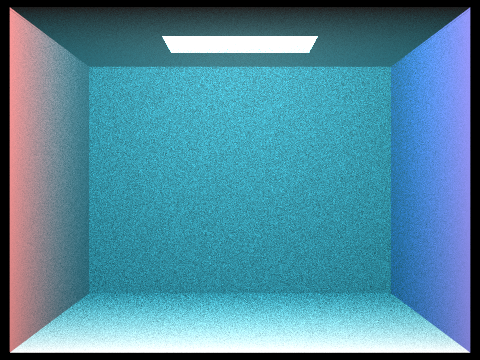
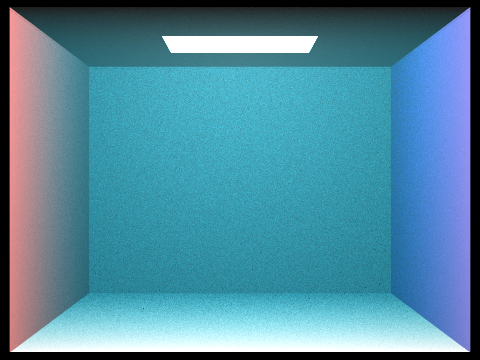
Report polish: high-spp figures, Secchi transition, pipeline diagram

diff --git a/photic_final.html b/photic_final.html
@@ -95,6 +95,13 @@
   recursion rather than being special-cased. Russian roulette (fixed continuation probability) keeps the
   paths finite at high optical depth.
 </p>
+<figure>
+  <img src="images/photic/pipeline.svg" alt="medium path decision flow" style="max-width:560px;">
+  <figcaption>The medium path at a glance. Every ray samples a free-flight distance; if it scatters
+    before reaching a surface we do next-event estimation and a Russian-roulette bounce (which is where
+    multiple scattering comes from), otherwise the ordinary HW3 surface result is attenuated by
+    transmittance over the water segment.</figcaption>
+</figure>
 
 <h3>Henyey-Greenstein phase function</h3>
 <p>
@@ -165,6 +172,20 @@
 </ul>
 
 <h2>Results</h2>
+
+<h3>Starting point vs water medium</h3>
+<p>
+  The clearest way to see what the extension adds is to render the same scene with the medium off and on.
+  Left is stock Homework 3 (no water flag, the byte-for-byte original); right is the identical scene and
+  camera with the water medium enabled at turbidity 0.15, depth scale 4, g = 0.9. Red is absorbed fastest,
+  so the whole box shifts toward cyan; contrast flattens as scattering fills the shadows; and the forward
+  lobe puts a bright glow around the light. The bunny stays recognizable but loses saturation and edge
+  contrast, which is the underwater look the rest of this section quantifies.
+</p>
+<div class="imgrow">
+  <figure><img src="images/photic/bunny_dry.png" alt="bunny in stock Cornell box, no medium"><figcaption>Stock HW3, no medium.</figcaption></figure>
+  <figure><img src="images/photic/bunny_wet.png" alt="same bunny scene rendered underwater"><figcaption>Same scene and camera with the water medium (turbidity 0.15, depth 4, g = 0.9).</figcaption></figure>
+</div>
 
 <h3>Phase function: isotropic vs forward-scattering</h3>
 <p>
@@ -257,6 +278,11 @@
   in the least-absorbed band. The rendered disk agrees with the empirical Kd law.
 </p>
 <figure>
+  <img src="images/photic/secchi_transition.png" alt="Secchi disk fading with depth">
+  <figcaption>The black-and-white target across increasing depth: crisp at depth x1, washing out by x8,
+    and gone by x12. Contrast fades smoothly with depth rather than switching off at a single point.</figcaption>
+</figure>
+<figure>
   <img src="images/photic/secchi_contrast.png" alt="Secchi contrast vs depth">
   <figcaption>White-vs-black patch contrast falling with depth. The shaded band is the Secchi depth
     predicted from measured Kd (1.4 to 1.7 divided by Kd); the measured crossing lands inside it.</figcaption>
@@ -273,16 +299,15 @@
 </ul>
 
 <h2>Contributions</h2>
-<p>
-  <em>Draft split based on the proposal, please confirm and adjust before submission.</em>
-</p>
 <ul>
-  <li><strong>Zachary Liang</strong> led the rendering physics: the medium infrastructure, free-flight
-    distance sampling, transmittance, the Henyey-Greenstein phase function and its importance sampling
-    and validation, the per-channel correction, and the <code>-g</code> control.</li>
-  <li><strong>Blair Xu</strong> led the measurement and analysis: the underwater test scene, the Kd
-    fitting and turbidity sweep, the convergence study, the Secchi relation, and the plotting pipeline.</li>
-  <li>Both members merged and verified the two halves together and produced the report, demo, and video.</li>
+  <li><strong>Zachary Liang</strong> built the rendering physics: the medium infrastructure, free-flight
+    distance sampling, transmittance, the Henyey-Greenstein phase function with its importance sampling
+    and validation, the per-channel chromatic correction, and the <code>-g</code> control.</li>
+  <li><strong>Blair Xu</strong> built the measurement and analysis: the underwater test scenes, the Kd
+    fitting and turbidity sweep, the convergence study, the Secchi-disk cross-check, and the plotting
+    pipeline.</li>
+  <li>Both members merged and verified the two halves together and shared the report, demo, and video
+    equally.</li>
 </ul>
 
 </body>
